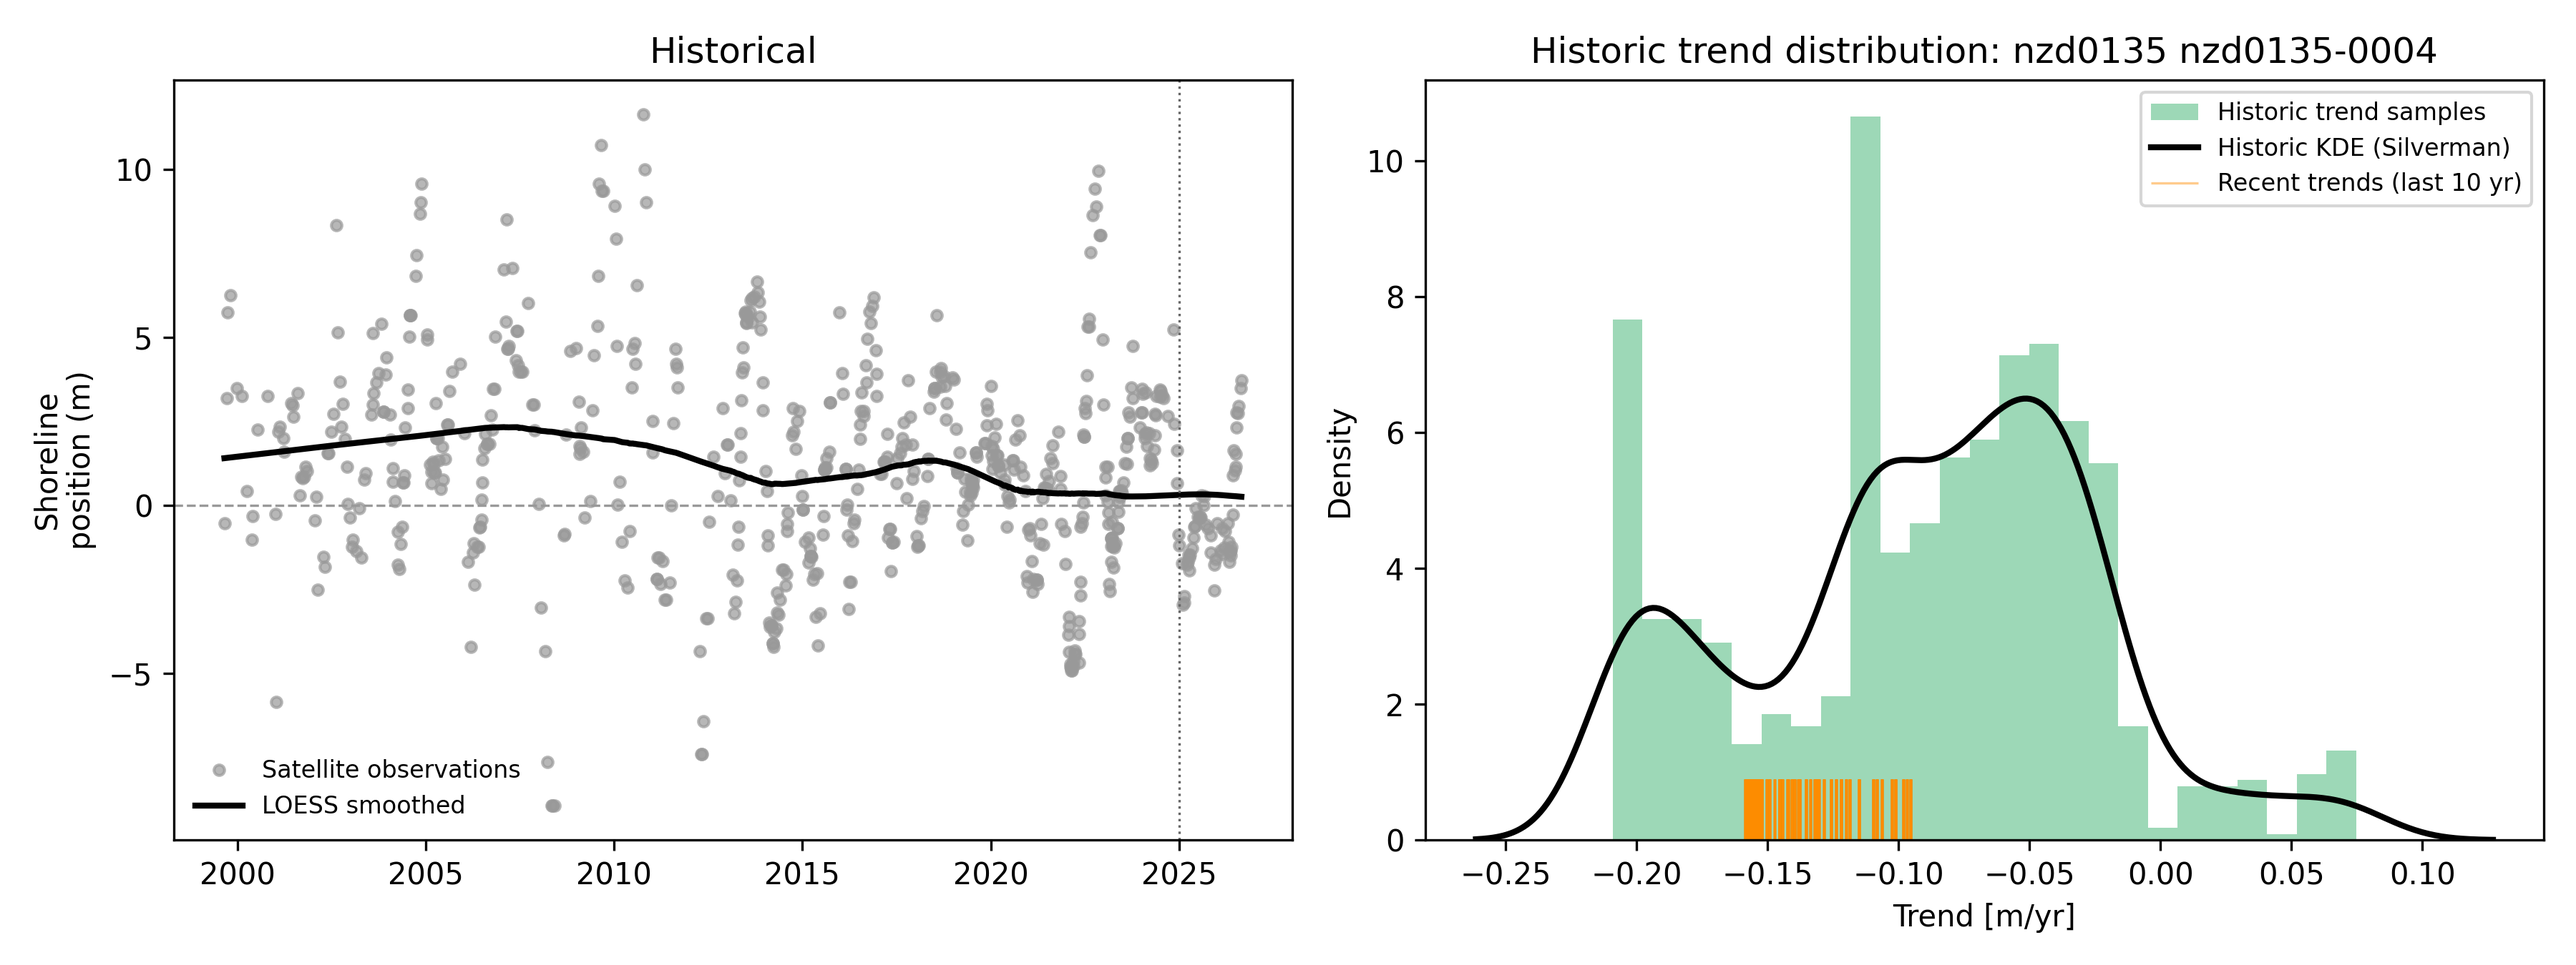
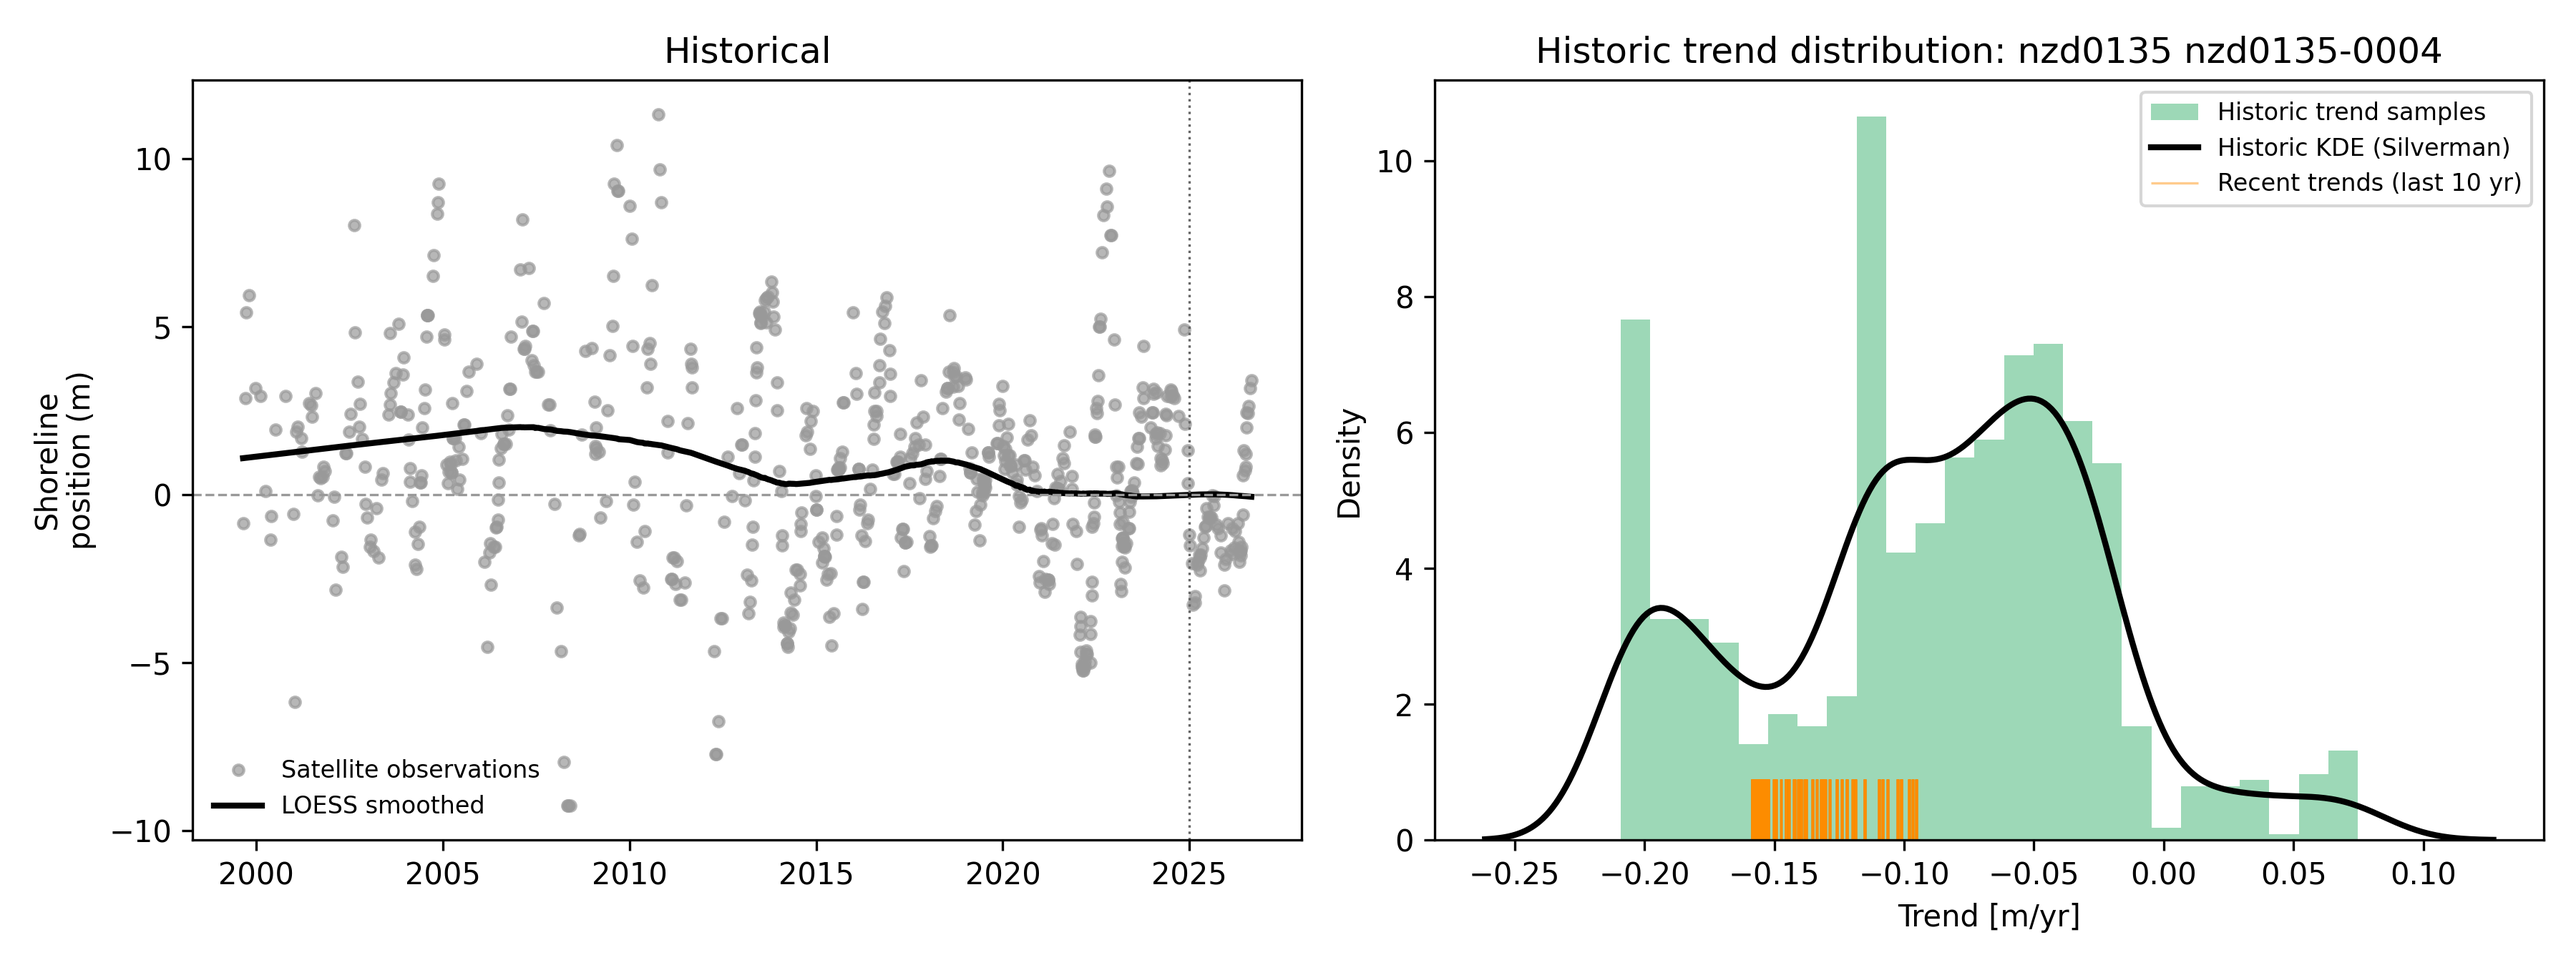
2025 as reference

diff --git a/figures_methods/plot_trend_extraction_example.py b/figures_methods/plot_trend_extraction_example.py
@@ -157,10 +157,10 @@ x_smooth, y_smooth, _ = loess_1d(
 )
 t_smooth = x_smooth + t_origin
 
-# Reference shoreline position = mean of the most recent year of record
-# (proxy for the 2024-2025 baseline described in the methods).
-ref_mask = t_clean >= (t_clean.max() - 1.0)
-ref_position = float(np.mean(y_clean[ref_mask]))
+# Use the LOESS shoreline position at 2025 as the zero-reference datum.
+if not (t_smooth.min() <= CUSTOM_REF_YEAR <= t_smooth.max()):
+    raise ValueError("The LOESS time series does not span the 2025 reference year.")
+ref_position = float(np.interp(CUSTOM_REF_YEAR, t_smooth, y_smooth))
 y_clean = y_clean - ref_position
 y_smooth = y_smooth - ref_position
 
